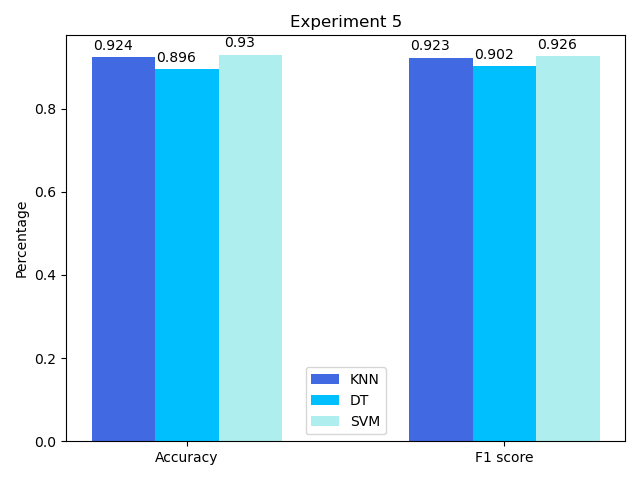
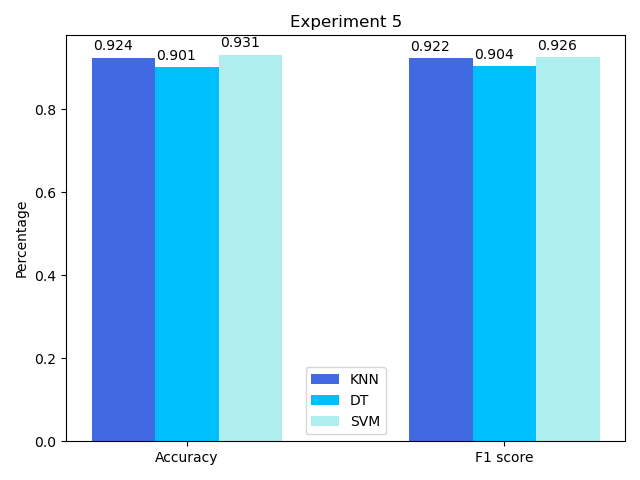
DUnno

diff --git a/models/suppoertvectormachines/svm.py b/models/suppoertvectormachines/svm.py
@@ -5,6 +5,9 @@ from sklearn.model_selection import train_test_split, cross_val_score
 from sklearn.metrics import classification_report, confusion_matrix, f1_score
 import matplotlib.pyplot as plt
 from sklearn.metrics import plot_confusion_matrix
+import time
+
+start_time = time.time()
 
 
 def svm(df, kernel, deg, **kwargs):
@@ -27,8 +30,10 @@ def svm(df, kernel, deg, **kwargs):
             clf = SVC(kernel='poly', degree=3)
         elif deg == 4:
             clf = SVC(kernel='poly', degree=4)
+        elif deg == 5:
+            clf = SVC(kernel='poly', degree=5)
         else:
-            print("Degree must be between 2 and 4")
+            print("Degree must be between 2 and 5")
 
     elif kernel == "s":
         kernel = "Sigmoid"
@@ -40,33 +45,36 @@ def svm(df, kernel, deg, **kwargs):
     else:
         print("Kernel-function must be chosen")
 
+    # Training and prediction
     clf.fit(X_train, y_train)
-
     y_pred = clf.predict(X_test)
 
+    # Cross validate and return accuracy mean
     cv_scores = cross_val_score(clf, X_train, y_train)
-
-    # Cross validate accuracy
     cv_scores_mean = np.mean(cv_scores)
-    print("Cross validated accuracy in SVM: ", cv_scores_mean)
 
-    print("This is svm with {} kernel {}: \n".format(kernel, (", with degree: ", deg)))
+    # print("Cross validated accuracy in SVM: ", cv_scores_mean)
+    # print("This is svm with {} kernel {}: \n".format(kernel, (", with degree: ", deg)))
 
     f1_micro = f1_score(y_test, y_pred, average='micro')
 
-    # print("F1_MICRO I SVM: ", f1_micro, "CV_SCORES_MEAN I SVM: ", cv_scores_mean)
-
+    # create confusion matrix
     plot_confusion_matrix(clf, X_test, y_test)
-    plt.show()
+
+    print(cv_scores_mean)
+    # print confusion matrix to png in resutls
+    # plt.savefig("../../results/svm/confusion_matrix_exp3.png")
+    # plt.savefig("../../results/svm/confusion_matrix_exp5_p4.png")
+
+    print("---end of svm---")
 
     return cv_scores_mean, f1_micro
 
 
-# update filepaths
+# Update file paths dependant on if your running from main og locally.
 def run_svm_on_dataset(exp, kernel, deg):
     cv_scores_mean, f1_micro = 0, 0
     if exp == 3:
-        print("reached exp = 3")
         # svm_3 = pd.read_csv("data/cleanneddata_exp3")
         df_3 = pd.read_csv("../../data/cleanneddata_exp3.csv")
         cv_scores_mean, f1_micro = svm(df_3, kernel, deg)
@@ -82,13 +90,17 @@ def run_svm_on_dataset(exp, kernel, deg):
     return cv_scores_mean, f1_micro
 
 
+# With optimal methods for relevant experiments with time stamp
+# run_svm_on_dataset(3, "g", 0)
+# print("---SVM for experiment 3 had a {} seconds execution time---".format(time.time() - start_time))
 
-#For dataset 5
+# run_svm_on_dataset(5, "p", 3)
+# print("---SVM for experiment 5 had a {} seconds execution time---".format(time.time() - start_time))
 
-#run_svm_on_dataset(5, "l", 0)
 
-
+# For dataset 5
 """
+run_svm_on_dataset(5, "l", 0)
 run_svm_on_dataset(5, "s", 0)
 run_svm_on_dataset(5, "g", 0)
 run_svm_on_dataset(5, "p", 2)
@@ -98,21 +110,11 @@ run_svm_on_dataset(5, "p", 4)
 """
 
 # For dataset 3
-
-#run_svm_on_dataset(3, "l", 0)
-# run_svm_on_dataset(3, "s", 0)
-# run_svm_on_dataset(3, "g", 0)
-# run_svm_on_dataset(3, "p", 2)
-# run_svm_on_dataset(3, "p", 3)
-# run_svm_on_dataset(3, "p", 4)
-
 """
 run_svm_on_dataset(3, "l", 0)
-
 run_svm_on_dataset(3, "s", 0)
 run_svm_on_dataset(3, "g", 0)
 run_svm_on_dataset(3, "p", 2)
 run_svm_on_dataset(3, "p", 3)
 run_svm_on_dataset(3, "p", 4)
 """
-

diff --git a/models/knn/knn.py b/models/knn/knn.py
@@ -7,6 +7,10 @@ import pandas as pd
 from models.knn.knn_year import *
 from sklearn.metrics import classification_report, confusion_matrix, f1_score
 from sklearn.metrics import plot_confusion_matrix
+import time
+
+start_time = time.time()
+
 
 # update filepaths
 def run_knn(param_k, exp, **kwargs):
@@ -32,12 +36,12 @@ def run_knn(param_k, exp, **kwargs):
         # optimal k: 11
         elif exp == 4:
             # df = pd.read_csv("data/cleanneddata_exp4.csv")
-             df = pd.read_csv("../../data/cleanneddata_exp4.csv")
+            df = pd.read_csv("../../data/cleanneddata_exp4.csv")
 
         # optimal k: 11
         elif exp == 5:
             # df = pd.read_csv("data/cleanneddata_exp5.csv")
-             df = pd.read_csv("../../data/cleanneddata_exp5.csv")
+            df = pd.read_csv("../../data/cleanneddata_exp5.csv")
 
         y = np.array(df["decade"])
 
@@ -62,7 +66,7 @@ def run_knn(param_k, exp, **kwargs):
 
             # to show graph
             plt.show()
-            #plt.savefig("results/knn/optimal_k_exp5.png")
+            # plt.savefig("results/knn/optimal_k_exp5.png")
 
         # This is knn with predefined k
         else:
@@ -79,18 +83,19 @@ def run_knn(param_k, exp, **kwargs):
 
             y_pred = clf.predict(X_test)
 
-
             # Prints confusion matrix with presentation view.
             plot_confusion_matrix(clf, X_test, y_test)
-            plt.show()
+
+            # plt.savefig("../../results/knn/confusion_matrix_exp3.png")
+            # plt.savefig("../../results/knn/confusion_matrix_exp5.png")
+
+            print("---end of svm---")
 
             f1_micro = f1_score(y_test, y_pred, average='micro')
 
             return cv_scores_mean, f1_micro
 
             # return classification_report(y_test, y_pred, output_dict=True)
-
-            # print("Program took", time.time() - start_time, "s to run")
 
 
 def run_knn_with_find_k(X_train, X_test, y_train, y_test):
@@ -101,19 +106,27 @@ def run_knn_with_find_k(X_train, X_test, y_train, y_test):
         # values for k
         x_axis.append(k)
 
-        # build classifiere
+        # build classifiers
         clf = neighbors.KNeighborsClassifier(k)
 
-        # adopt the dataen x and y trainingsets
+        # adopt the data x and y training sets
         clf.fit(X_train, y_train)
 
         # to test the accuracy
         accuracy = clf.score(X_test, y_test)
 
+        # plot cm
         plot_confusion_matrix(clf, X_test, y_test)
-        plt.show()
 
         # values for accuracy
         y_axis.append(accuracy)
 
     return x_axis, y_axis
+
+
+# With optimal k for relevant experiments with time stamp
+# run_knn(80, 3)
+# print("---kNN for experiment 3 had a {} seconds execution time---".format(time.time() - start_time))
+
+# run_knn(11, 5)
+# print("---kNN for experiment 5 had a {} seconds execution time---".format(time.time() - start_time))

diff --git a/source/visualization/resultsvis.py b/source/visualization/resultsvis.py
@@ -6,13 +6,14 @@ from models.suppoertvectormachines.svm import run_svm_on_dataset
 
 import numpy as np
 
+
 def get_metrics(experiment):
     accuracy = []
     f1_score = []
 
     if experiment == 3:
-        #optimal k = 70
-        knn_cv_mean, knn_f1_micro = run_knn(70, 3)
+        # optimal k = 70
+        knn_cv_mean, knn_f1_micro = run_knn(80, 3)
         accuracy.append(knn_cv_mean)
         f1_score.append(knn_f1_micro)
 
@@ -20,7 +21,7 @@ def get_metrics(experiment):
         accuracy.append(dt_cv_mean)
         f1_score.append(dt_f1_micro)
 
-        #optimal solution is with Gaussian kernel
+        # optimal solution is with Gaussian kernel
         svm_cv_mean, svm_f1_micro = run_svm_on_dataset(3, "g", 0)
         accuracy.append(svm_cv_mean)
         f1_score.append(svm_f1_micro)
@@ -36,7 +37,7 @@ def get_metrics(experiment):
         f1_score.append(dt_f1_micro)
 
         # optimal solution is with Gaussian kernel
-        svm_cv_mean, svm_f1_micro = run_svm_on_dataset(5, "p", 3)
+        svm_cv_mean, svm_f1_micro = run_svm_on_dataset(5, "p", 4)
         accuracy.append(svm_cv_mean)
         f1_score.append(svm_f1_micro)
 
@@ -44,6 +45,7 @@ def get_metrics(experiment):
         "Can only do this for experiment 3 and 5"
 
     return accuracy, f1_score
+
 
 def accuracy_graph(experiment):
     accuracy, f1_score = get_metrics(experiment)
@@ -79,7 +81,7 @@ def accuracy_graph(experiment):
     ax.legend()
 
     def autolabel(rects):
-        #Attach a text label above each bar in *rects*, displaying its height.
+        # Attach a text label above each bar in *rects*, displaying its height.
         for rect in rects:
             height = rect.get_height()
             ax.annotate('{}'.format(height),
@@ -93,10 +95,12 @@ def accuracy_graph(experiment):
     autolabel(rects3)
 
     fig.tight_layout()
-    #plt.show()
-    #plt.savefig("../../results/accuracy_f1_results_exp5.png")
-    #plt.savefig("../../results/accuracy_f1_results_exp3.png")
+
+    # creating files for results
+    # plt.savefig("../../results/accuracy_f1_results_exp3.png")
+    # plt.savefig("../../results/accuracy_f1_results_exp5.png")
 
 
-accuracy_graph(3)
-
+# Optimal run returning graphs of accuracy and f1 scores.
+# accuracy_graph(3)
+# accuracy_graph(5)

diff --git a/models/decisiontree/dt.py b/models/decisiontree/dt.py
@@ -7,7 +7,9 @@ from sklearn.tree import DecisionTreeClassifier
 from sklearn.metrics import classification_report, confusion_matrix, f1_score
 import matplotlib.pyplot as plt
 from sklearn.metrics import plot_confusion_matrix
-from IPython.display import display
+import time
+
+start_time = time.time()
 
 
 def dt(df):
@@ -25,16 +27,18 @@ def dt(df):
 
     # Cross validate accuracy
     cv_scores_mean = np.mean(cv_scores)
-    print("Cross validated accuracy: ", cv_scores_mean)
-
+    #print("Cross validated accuracy: ", cv_scores_mean)
 
     plot_confusion_matrix(clf, X_test, y_test)
-    plt.show()
 
-    print(classification_report(y_test, y_pred))
+    # plt.savefig("../../results/dt/confusion_matrix_exp3.png")
+    # plt.savefig("../../results/dt/confusion_matrix_exp5.png")
+
+    print("---end of svm---")
+
+    #print(classification_report(y_test, y_pred))
     f1_micro = f1_score(y_test, y_pred, average='micro')
 
-    # print("F1_MICRO I DT: ", f1_micro, "CV_SCORES_MEAN I DT: ", cv_scores_mean)
     return cv_scores_mean, f1_micro
 
 
@@ -47,7 +51,6 @@ def run_dt_on_dataset(exp):
         df_3 = pd.read_csv("../../data/cleanneddata_exp3.csv")
         cv_scores_mean, f1_micro = dt(df_3)
 
-
     elif exp == 5:
         # df_5 = pd.read_csv("data/cleanneddata_exp3")
         df_5 = pd.read_csv("../../data/cleanneddata_exp5.csv")
@@ -55,10 +58,17 @@ def run_dt_on_dataset(exp):
     else:
         print("DT is only implemented for experiment 3 and 5")
 
-
     return cv_scores_mean, f1_micro
 
+
+# With optimal k for relevant experiments with time stamp
+# run_dt_on_dataset(3)
+# print("---kNN for experiment 3 had a {} seconds execution time---".format(time.time() - start_time))
+
 # run_dt_on_dataset(5)
+# print("---kNN for experiment 5 had a {} seconds execution time---".format(time.time() - start_time))
+
+
 
 # exp_1: 9%
 # exp_2: 31%
